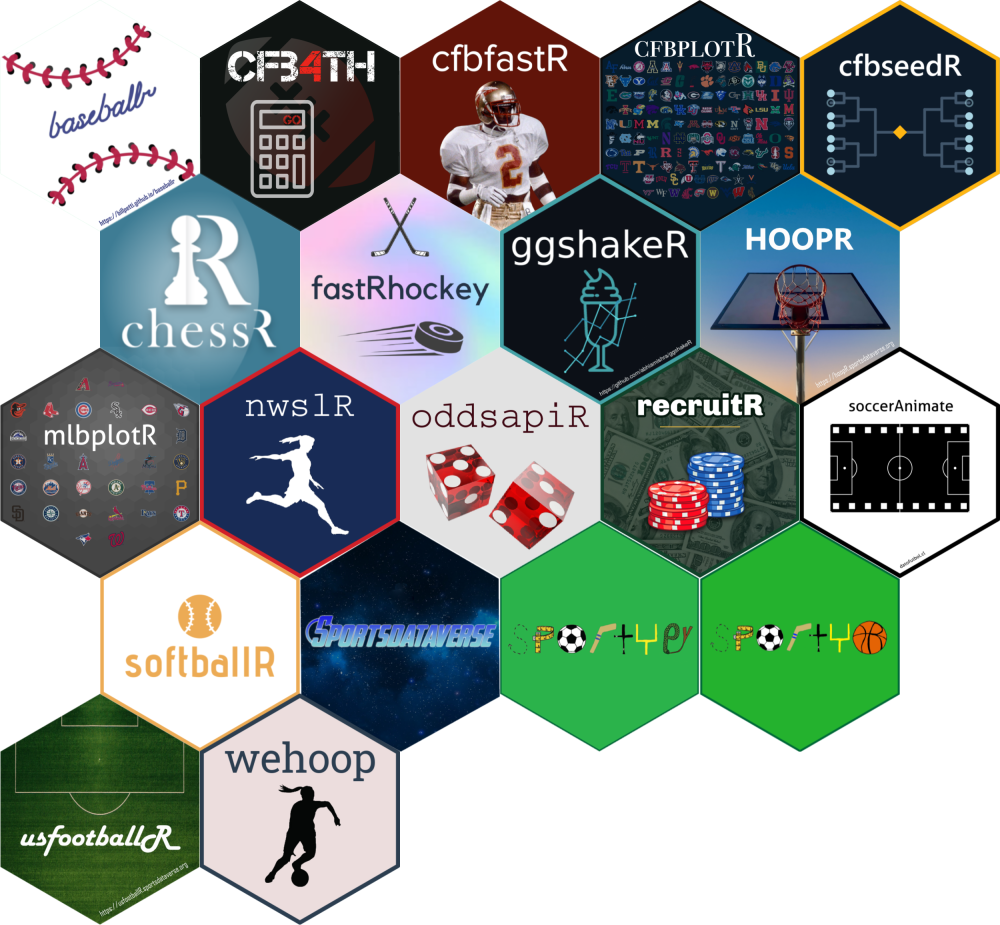
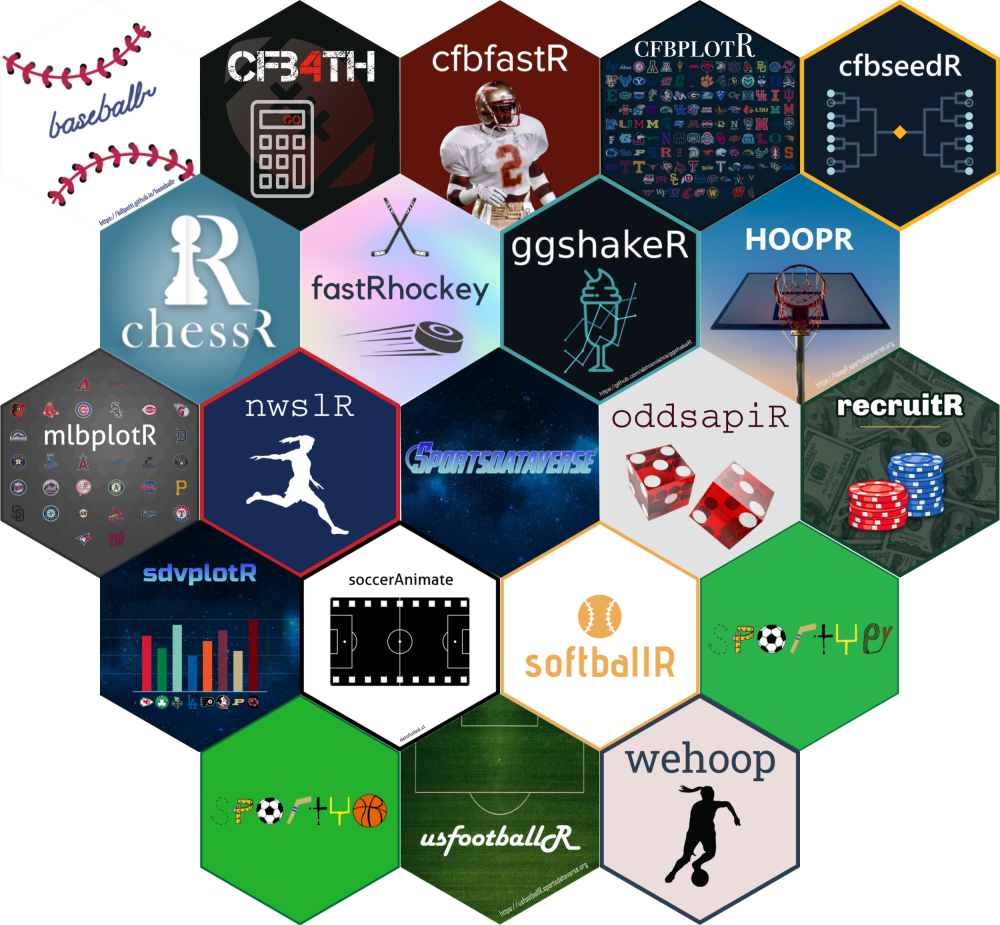
docs(profile): refresh org README; feat(status): combined CRAN downloads badge (#44)
* docs(profile): refresh org README with per-producer data status, live package versions, quick start

- replace the single badge row with a producer table (pipeline / updated / through) for all 17 data producers
- R and Python packages as tables with live CRAN / R-universe / PyPI version and download badges
- add sdvplotR and sdvplot, a Get started block for R / Python / Node, and a Built on the SportsDataverse section
- fix descriptions (fastRhockey HockeyTech leagues, wrapped hoopR/wehoop/baseballr lines) and add alt text

* docs(profile): lead with packages, link data status, add social and download badges

- intro order: banner, social + downloads badges, get started, packages; data status
  moves below the packages as a link plus one row of league badges
- add Bluesky (@sportsdataverse.org), social-style follower/star badges, PyPI and npm
  total downloads, and a combined CRAN downloads badge
- contributors wall (contrib.rocks) for the four flagship repos; cheat-sheet table folded
- hex wall rebuilt from sportsdataverse-R (sdvplotR added, transparent for dark mode)

feat(status): emit ecosystem/cran-downloads.json, all-time CRAN downloads summed over
package_repos via cranlogs (valid R names only; a failed read carries the last number
forward instead of publishing a zero), with tests

* chore(status): drop the hand-seeded badge; the nightly ecosystem-status run writes it

* docs(profile): for-the-badge style for every badge; accurate off-season wording
[…]

diff --git a/.github/scripts/ecosystem_status.py b/.github/scripts/ecosystem_status.py
@@ -28,6 +28,7 @@ import re
 import shutil
 import subprocess
 import sys
+import urllib.request
 from datetime import date, datetime, timedelta, timezone
 from pathlib import Path, PurePosixPath
 
@@ -60,6 +61,11 @@ COLORS = {
 TOC_START = "<!-- START doctoc generated TOC please keep comment here to allow auto update -->"
 TOC_END = "<!-- END doctoc generated TOC please keep comment here to allow auto update -->"
 RELEASE_TAGS_HEADING = "## sportsdataverse-data release tags — freshness"
+# All-time CRAN downloads (RStudio mirror) per package; one invalid package name
+# makes cranlogs reject the whole query, so only valid R names are sent.
+CRANLOGS = "https://cranlogs.r-pkg.org/downloads/total/2012-10-01:last-day/"
+R_PKG_RE = re.compile(r"^[A-Za-z][A-Za-z0-9.]*[A-Za-z0-9]$")
+CRAN_BADGE = "ecosystem/cran-downloads.json"
 
 
 def warn(msg: str) -> None:
@@ -280,6 +286,28 @@ def badge(label: str, message: str, color: str) -> dict:
         "color": color,
         "namedLogo": "github",
     }
+
+
+def human_count(n: int) -> str:
+    if n >= 1_000_000:
+        return f"{n / 1_000_000:.1f}M"
+    return f"{n // 1000}k" if n >= 1000 else str(n)
+
+
+def cran_downloads_badge(package_repos, fetch=None) -> dict | None:
+    """Combined all-time CRAN downloads of the package repos (repo name = package
+    name; non-R names such as sportsdataverse-py are skipped). None when cranlogs
+    can't be read, so a failed fetch never publishes a zero."""
+    pkgs = sorted({r.split("/")[-1] for r in package_repos if R_PKG_RE.match(r.split("/")[-1])})
+    # cranlogs answers 403 to urllib's default "Python-urllib" User-Agent
+    ua = {"User-Agent": "sportsdataverse-ecosystem-status (+https://sportsdataverse.org/status)"}
+    fetch = fetch or (lambda url: json.load(urllib.request.urlopen(urllib.request.Request(url, headers=ua), timeout=30)))
+    try:
+        total = sum(int(row.get("downloads") or 0) for row in fetch(CRANLOGS + ",".join(pkgs)))
+    except (OSError, ValueError, TypeError, AttributeError) as e:
+        warn(f"cranlogs downloads not read: {e}")
+        return None
+    return {**badge("CRAN downloads", human_count(total), "blue"), "namedLogo": "r"}
 
 
 def wf_badge(wf: dict) -> dict:
@@ -890,6 +918,14 @@ def main() -> int:
     dirs = badge_dirs(snap["repos"])
     summary = build_summary(snap, cfg, NOW, dirs)
     files = badge_files(snap, summary, dirs)
+    cran = cran_downloads_badge(cfg["package_repos"])
+    if cran is None:  # badges/ is wiped below: carry last night's number forward
+        try:
+            cran = json.loads((OUT / "badges" / CRAN_BADGE).read_text(encoding="utf-8"))
+        except (OSError, ValueError):
+            pass
+    if cran:
+        files[CRAN_BADGE] = cran
     OUT.mkdir(parents=True, exist_ok=True)
     write_json(OUT / "ecosystem.json", snap)
     write_json(OUT / "summary.json", summary)

diff --git a/.github/scripts/tests/test_ecosystem_status.py b/.github/scripts/tests/test_ecosystem_status.py
@@ -831,5 +831,32 @@ class Markdown(Base):
                 self.assertIsNone(re.search(r"\d", l), l)
 
 
+class CranDownloads(Base):
+    def test_sums_valid_r_package_names_only(self):
+        seen = []
+
+        def fetch(url):
+            seen.append(url)
+            return [{"package": "hoopR", "downloads": 1_200_000}, {"package": "wehoop", "downloads": 34_567}]
+
+        b = es.cran_downloads_badge(
+            ["sportsdataverse/hoopR", "sportsdataverse/wehoop", "sportsdataverse/sportsdataverse-py"], fetch
+        )
+        self.assertEqual(seen, [es.CRANLOGS + "hoopR,wehoop"])  # a hyphenated name 404s the whole query
+        self.assertEqual((b["label"], b["message"], b["namedLogo"]), ("CRAN downloads", "1.2M", "r"))
+
+    def test_failed_fetch_is_none_never_zero(self):
+        def down(url):
+            raise OSError("cranlogs down")
+
+        self.assertIsNone(es.cran_downloads_badge(["sportsdataverse/hoopR"], down))
+        # cranlogs answers a bad query with an error object, not a list
+        self.assertIsNone(es.cran_downloads_badge(["sportsdataverse/hoopR"], lambda url: {"error": "Invalid query"}))
+        self.assertTrue(any("cranlogs" in w for w in es.WARNINGS))
+
+    def test_human_count(self):
+        self.assertEqual([es.human_count(n) for n in (999, 287_487, 1_234_567)], ["999", "287k", "1.2M"])
+
+
 if __name__ == "__main__":
     unittest.main()

diff --git a/profile/README.md b/profile/README.md
@@ -1,95 +1,158 @@
-# [SportsDataverse](https://sportsdataverse.org/ "The home page of the SportsDataverse Organization")
+<p align="center">
+  <a href="https://sportsdataverse.org/" title="The home page of the SportsDataverse Organization"><img src="https://raw.githubusercontent.com/sportsdataverse/.github/main/profile/sdv-gh.png" width="640" alt="SportsDataverse"/></a>
+</p>
 
-## Data and automation status
+<p align="center">
+  <b>Open sports data for R, Python and JavaScript.</b><br/>
+  Tidy play-by-play, box scores, schedules, rosters and fitted models (expected points, win probability, expected goals)
+  for college and pro football, basketball, hockey and baseball, published by automated pipelines that every package reads from.
+</p>
 
-Every SportsDataverse loader reads the `sportsdataverse-data` releases; how fresh each producer's data is and whether its pipeline is passing is on [sportsdataverse.org/status](https://sportsdataverse.org/status), rebuilt nightly from [status/ecosystem.md](https://github.com/sportsdataverse/.github/blob/main/status/ecosystem.md).
+<p align="center">
+  <a href="https://github.com/sportsdataverse"><img src="https://img.shields.io/github/followers/sportsdataverse?label=Follow&logo=github&logoColor=white&style=for-the-badge" alt="GitHub followers"/></a>
+  <a href="https://github.com/sportsdataverse"><img src="https://img.shields.io/github/stars/sportsdataverse?label=Stars&logo=github&logoColor=white&style=for-the-badge" alt="GitHub stars"/></a>
+  <a href="https://bsky.app/profile/sportsdataverse.org"><img src="https://img.shields.io/bluesky/followers/sportsdataverse.org?logo=bluesky&label=Bluesky&logoColor=white&style=for-the-badge" alt="Bluesky followers"/></a>
+  <a href="https://x.com/sportsdataverse"><img src="https://img.shields.io/badge/%40sportsdataverse-000000?logo=x&logoColor=white&style=for-the-badge" alt="Follow on X"/></a>
+  <br/>
+  <a href="https://sportsdataverse.r-universe.dev"><img src="https://img.shields.io/endpoint?url=https%3A%2F%2Fraw.githubusercontent.com%2Fsportsdataverse%2F.github%2Fmain%2Fstatus%2Fbadges%2Fecosystem%2Fcran-downloads.json&style=for-the-badge" alt="CRAN downloads"/></a>
+  <a href="https://pepy.tech/project/sportsdataverse"><img src="https://img.shields.io/pepy/dt/sportsdataverse?label=PyPI%20downloads&logo=python&logoColor=white&color=blue&style=for-the-badge" alt="PyPI downloads"/></a>
+  <a href="https://www.npmjs.com/package/sportsdataverse"><img src="https://img.shields.io/npm/dt/sportsdataverse?label=npm%20downloads&logo=npm&color=blue&style=for-the-badge" alt="npm downloads"/></a>
+  <a href="https://sportsdataverse.r-universe.dev"><img src="https://img.shields.io/badge/dynamic/json?url=https%3A%2F%2Fsportsdataverse.r-universe.dev%2Fapi%2Fpackages&query=%24.length&label=r-universe%20packages&logo=r&color=blue&style=for-the-badge" alt="R-universe packages"/></a>
+</p>
 
-[![WBB](https://img.shields.io/endpoint?url=https%3A%2F%2Fraw.githubusercontent.com%2Fsportsdataverse%2F.github%2Fmain%2Fstatus%2Fbadges%2Fwehoop-wbb-data%2Fstatus.json&label=WBB)](https://github.com/sportsdataverse/wehoop-wbb-data/actions)
-[![WNBA](https://img.shields.io/endpoint?url=https%3A%2F%2Fraw.githubusercontent.com%2Fsportsdataverse%2F.github%2Fmain%2Fstatus%2Fbadges%2Fwehoop-wnba-data%2Fstatus.json&label=WNBA)](https://github.com/sportsdataverse/wehoop-wnba-data/actions)
-[![MBB](https://img.shields.io/endpoint?url=https%3A%2F%2Fraw.githubusercontent.com%2Fsportsdataverse%2F.github%2Fmain%2Fstatus%2Fbadges%2FhoopR-mbb-data%2Fstatus.json&label=MBB)](https://github.com/sportsdataverse/hoopR-mbb-data/actions)
-[![NBA](https://img.shields.io/endpoint?url=https%3A%2F%2Fraw.githubusercontent.com%2Fsportsdataverse%2F.github%2Fmain%2Fstatus%2Fbadges%2FhoopR-nba-data%2Fstatus.json&label=NBA)](https://github.com/sportsdataverse/hoopR-nba-data/actions)
-[![CFB](https://img.shields.io/endpoint?url=https%3A%2F%2Fraw.githubusercontent.com%2Fsportsdataverse%2F.github%2Fmain%2Fstatus%2Fbadges%2FcfbfastR-cfb-data%2Fstatus.json&label=CFB)](https://github.com/sportsdataverse/cfbfastR-cfb-data/actions)
-[![NFL](https://img.shields.io/endpoint?url=https%3A%2F%2Fraw.githubusercontent.com%2Fsportsdataverse%2F.github%2Fmain%2Fstatus%2Fbadges%2Fnfl-data%2Fstatus.json&label=NFL)](https://github.com/sportsdataverse/nfl-data/actions)
-[![NHL](https://img.shields.io/endpoint?url=https%3A%2F%2Fraw.githubusercontent.com%2Fsportsdataverse%2F.github%2Fmain%2Fstatus%2Fbadges%2FfastRhockey-nhl-data%2Fstatus.json&label=NHL)](https://github.com/sportsdataverse/fastRhockey-nhl-data/actions)
-[![PWHL](https://img.shields.io/endpoint?url=https%3A%2F%2Fraw.githubusercontent.com%2Fsportsdataverse%2F.github%2Fmain%2Fstatus%2Fbadges%2FfastRhockey-pwhl-data%2Fstatus.json&label=PWHL)](https://github.com/sportsdataverse/fastRhockey-pwhl-data/actions)
-[![MLB](https://img.shields.io/endpoint?url=https%3A%2F%2Fraw.githubusercontent.com%2Fsportsdataverse%2F.github%2Fmain%2Fstatus%2Fbadges%2Fbaseballr-data%2Fstatus.json&label=MLB)](https://github.com/sportsdataverse/baseballr-data/actions)
+<p align="center">
+  <a href="https://sportsdataverse.org/">Website</a> ·
+  <a href="https://sportsdataverse.org/cheatsheets">Cheat sheets</a> ·
+  <a href="https://sportsdataverse.r-universe.dev">R-universe</a> ·
+  <a href="https://github.com/sportsdataverse/sportsdataverse-data/releases">Data releases</a> ·
+  <a href="https://sportsdataverse.org/status">Data status</a> ·
+  <a href="https://sportsdataverse.org/join">Join the list</a>
+</p>
 
+## Get started
+
+```r
+# R: the whole family from R-universe (the core packages are also on CRAN)
+install.packages("sportsdataverse",
+  repos = c("https://sportsdataverse.r-universe.dev", "https://cloud.r-project.org"))
+pbp <- cfbfastR::load_cfb_pbp(2025)
+```
+
+```python
+# Python: pip install sportsdataverse
+from sportsdataverse.cfb import load_cfb_pbp
+pbp = load_cfb_pbp(seasons=[2025])  # a polars DataFrame; return_as_pandas=True for pandas
+```
+
+```sh
+# Node.js
+npm install sportsdataverse
+```
 
 ## R Packages
 
-<a href='https://r.sportsdataverse.org/'><img src='https://raw.githubusercontent.com/sportsdataverse/.github/main/profile/sdv-hex-wall.png' align='right' width='38%' min-width='260px' alt='The SportsDataverse R package hex wall'/></a>
+<p align="center"><a href='https://r.sportsdataverse.org/'><img src='https://raw.githubusercontent.com/sportsdataverse/.github/main/profile/sdv-hex-wall.png' width='560' alt='The SportsDataverse R package hex wall'/></a></p>
 
-- [{sportsdataverse}](https://sportsdataverse.org/) - The SportsDataverse meta-package for R — loads the core SDV R packages in one call · [cheat sheet](https://sportsdataverse.org/cheatsheets/sportsdataverse-R.pdf)
-- [{cfbfastR}](https://cfbfastR.sportsdataverse.org/) - An R package to quickly obtain clean and tidy college football play by play data (Data sources: CollegeFootballData, ESPN) · [cheat sheet](https://sportsdataverse.org/cheatsheets/cfbfastR.pdf)
-- [{hoopR}](https://hoopR.sportsdataverse.org/) - A utility to quickly obtain clean and tidy men's · [cheat sheet](https://sportsdataverse.org/cheatsheets/hoopR.pdf)
-    basketball play by play data (Data sources: NBA Stats API, ESPN, KenPom)
-- [{wehoop}](https://wehoop.sportsdataverse.org/) - A utility to quickly obtain clean and tidy women's · [cheat sheet](https://sportsdataverse.org/cheatsheets/wehoop.pdf)
-    basketball play by play data (Data sources: WNBA Stats API, ESPN)
-- [{baseballr}](https://BillPetti.github.io/baseballr/) - Provides numerous utilities for acquiring and analyzing · [cheat sheet](https://sportsdataverse.org/cheatsheets/baseballr.pdf)
-    baseball data from online sources (Data sources: Baseball Reference, FanGraphs, MLB Stats API, NCAA)
-- [{fastRhockey}](https://fastrhockey.sportsdataverse.org/) - A utility to scrape and load hockey play-by-play data and statistics (Data sources: NHL, PWHL) · [cheat sheet](https://sportsdataverse.org/cheatsheets/fastRhockey.pdf)
-- [{sportyR}](https://sportyr.sportsdataverse.org/) - Create scaled 'ggplot' representations of playing surfaces. Playing surfaces are drawn pursuant to rule-book specifications. · [cheat sheet](https://sportsdataverse.org/cheatsheets/sportyR.pdf)
-- [{ggshakeR}](https://abhiamishra.github.io/ggshakeR/) - Analysis and visualization R package that works with publically available soccer data (Compatible data sources: FB Reference, StatsBomb, Understat)
-- [{soccerAnimate}](https://github.com/Dato-Futbol/soccerAnimate) - Create 2D animations of soccer tracking data (Compatible data sources: Metrica Sports, Catapult)
-- [{oddsapiR}](https://oddsapir.sportsdataverse.org/) - Access sports odds from the Odds API (Data sources: The Odds API) · [cheat sheet](https://sportsdataverse.org/cheatsheets/oddsapiR.pdf)
-- [{mlbplotR}](https://camdenk.github.io/mlbplotR/) - Create 'ggplot2' and 'gt' Visuals with Major League Baseball Logos · [cheat sheet](https://sportsdataverse.org/cheatsheets/mlbplotR.pdf)
-- [{cfbplotR}](https://cfbplotr.sportsdataverse.org/) - A set of functions to visualize college football teams in 'ggplot2' · [cheat sheet](https://sportsdataverse.org/cheatsheets/cfbplotR-cfb4th-cfbseedR.pdf)
-- [{cfb4th}](http://cfb4th.sportsdataverse.org/) - A set of functions to analyze NCAA Football 4th Downs · [cheat sheet](https://sportsdataverse.org/cheatsheets/cfbplotR-cfb4th-cfbseedR.pdf)
-- [{cfbseedR}](https://cfbseedR.sportsdataverse.org/) - Simulate and evaluate college football seasons: conference tiebreakers, CFP seeding and season simulations (Data sources: cfbfastR, CollegeFootballData) · [cheat sheet](https://sportsdataverse.org/cheatsheets/cfbplotR-cfb4th-cfbseedR.pdf)
-- [{softballR}](https://github.com/sportsdataverse/softballR) - Scrapes and cleans college softball data (Data sources: NCAA, ESPN)
-- [{nwslR}](https://github.com/nwslR/nwslR) - Compiles dataset for the National Women's Soccer League (NWSL)
-- [{usfootballR}](https://usfootballr.sportsdataverse.org/) - MLS and NWSL play-by-play data (Data sources: ESPN)
-- [{recruitR}](https://recruitr.sportsdataverse.org/) - A college football recruiting package (Data sources: CollegeFootballData, 247sports)
-- [{puntr}](https://puntalytics.github.io/puntr) - Package for puntalytics
-- [{chessR}](https://jaseziv.github.io/chessR/) - A set of functions to enable users to extract chess game data from popular chess sites (Data sources: Lichess, Chess.com)
+| Package | Covers | Version | Downloads | Cheat sheet |
+| --- | --- | --- | --- | --- |
+| [sportsdataverse](https://r.sportsdataverse.org/) | The meta-package: installs and loads the core SDV R packages in one call | [![R-universe version](https://img.shields.io/badge/dynamic/json?url=https%3A%2F%2Fsportsdataverse.r-universe.dev%2Fapi%2Fpackages%2Fsportsdataverse&query=%24.Version&label=r-universe&logo=r&color=blue&style=for-the-badge)](https://sportsdataverse.r-universe.dev/sportsdataverse) | | [PDF](https://sportsdataverse.org/cheatsheets/sportsdataverse-R.pdf) |
+| [cfbfastR](https://cfbfastR.sportsdataverse.org/) | College football play-by-play, EPA and win probability (CollegeFootballData, ESPN, stats.ncaa.org) | [![CRAN version](https://img.shields.io/cran/v/cfbfastR?label=CRAN&style=for-the-badge)](https://CRAN.R-project.org/package=cfbfastR) | [![CRAN downloads](https://img.shields.io/badge/dynamic/json?url=https%3A%2F%2Fcranlogs.r-pkg.org%2Fdownloads%2Ftotal%2F2012-10-01%3Alast-day%2FcfbfastR&query=%24%5B0%5D.downloads&label=downloads&color=blue&style=for-the-badge)](https://CRAN.R-project.org/package=cfbfastR) | [PDF](https://sportsdataverse.org/cheatsheets/cfbfastR.pdf) |
+| [hoopR](https://hoopR.sportsdataverse.org/) | Men's basketball, NBA and college (NBA Stats API, ESPN, KenPom, stats.ncaa.org) | [![CRAN version](https://img.shields.io/cran/v/hoopR?label=CRAN&style=for-the-badge)](https://CRAN.R-project.org/package=hoopR) | [![CRAN downloads](https://img.shields.io/badge/dynamic/json?url=https%3A%2F%2Fcranlogs.r-pkg.org%2Fdownloads%2Ftotal%2F2012-10-01%3Alast-day%2FhoopR&query=%24%5B0%5D.downloads&label=downloads&color=blue&style=for-the-badge)](https://CRAN.R-project.org/package=hoopR) | [PDF](https://sportsdataverse.org/cheatsheets/hoopR.pdf) |
+| [wehoop](https://wehoop.sportsdataverse.org/) | Women's basketball, WNBA and college (WNBA Stats API, ESPN, stats.ncaa.org) | [![CRAN version](https://img.shields.io/cran/v/wehoop?label=CRAN&style=for-the-badge)](https://CRAN.R-project.org/package=wehoop) | [![CRAN downloads](https://img.shields.io/badge/dynamic/json?url=https%3A%2F%2Fcranlogs.r-pkg.org%2Fdownloads%2Ftotal%2F2012-10-01%3Alast-day%2Fwehoop&query=%24%5B0%5D.downloads&label=downloads&color=blue&style=for-the-badge)](https://CRAN.R-project.org/package=wehoop) | [PDF](https://sportsdataverse.org/cheatsheets/wehoop.pdf) |
+| [fastRhockey](https://fastrhockey.sportsdataverse.org/) | Hockey play-by-play and stats (NHL, PWHL, HockeyTech leagues) | [![CRAN version](https://img.shields.io/cran/v/fastRhockey?label=CRAN&style=for-the-badge)](https://CRAN.R-project.org/package=fastRhockey) | [![CRAN downloads](https://img.shields.io/badge/dynamic/json?url=https%3A%2F%2Fcranlogs.r-pkg.org%2Fdownloads%2Ftotal%2F2012-10-01%3Alast-day%2FfastRhockey&query=%24%5B0%5D.downloads&label=downloads&color=blue&style=for-the-badge)](https://CRAN.R-project.org/package=fastRhockey) | [PDF](https://sportsdataverse.org/cheatsheets/fastRhockey.pdf) |
+| [baseballr](https://BillPetti.github.io/baseballr/) | Baseball data (MLB Stats API, Statcast, FanGraphs, Baseball Reference, NCAA) | [![CRAN version](https://img.shields.io/cran/v/baseballr?label=CRAN&style=for-the-badge)](https://CRAN.R-project.org/package=baseballr) | [![CRAN downloads](https://img.shields.io/badge/dynamic/json?url=https%3A%2F%2Fcranlogs.r-pkg.org%2Fdownloads%2Ftotal%2F2012-10-01%3Alast-day%2Fbaseballr&query=%24%5B0%5D.downloads&label=downloads&color=blue&style=for-the-badge)](https://CRAN.R-project.org/package=baseballr) | [PDF](https://sportsdataverse.org/cheatsheets/baseballr.pdf) |
+| [oddsapiR](https://oddsapir.sportsdataverse.org/) | Sportsbook odds (The Odds API) | [![CRAN version](https://img.shields.io/cran/v/oddsapiR?label=CRAN&style=for-the-badge)](https://CRAN.R-project.org/package=oddsapiR) | [![CRAN downloads](https://img.shields.io/badge/dynamic/json?url=https%3A%2F%2Fcranlogs.r-pkg.org%2Fdownloads%2Ftotal%2F2012-10-01%3Alast-day%2FoddsapiR&query=%24%5B0%5D.downloads&label=downloads&color=blue&style=for-the-badge)](https://CRAN.R-project.org/package=oddsapiR) | [PDF](https://sportsdataverse.org/cheatsheets/oddsapiR.pdf) |
+| [cfbseedR](https://cfbseedR.sportsdataverse.org/) | College football season simulation: conference tiebreakers and CFP seeding | [![CRAN version](https://img.shields.io/cran/v/cfbseedR?label=CRAN&style=for-the-badge)](https://CRAN.R-project.org/package=cfbseedR) | [![CRAN downloads](https://img.shields.io/badge/dynamic/json?url=https%3A%2F%2Fcranlogs.r-pkg.org%2Fdownloads%2Ftotal%2F2012-10-01%3Alast-day%2FcfbseedR&query=%24%5B0%5D.downloads&label=downloads&color=blue&style=for-the-badge)](https://CRAN.R-project.org/package=cfbseedR) | [PDF](https://sportsdataverse.org/cheatsheets/cfbplotR-cfb4th-cfbseedR.pdf) |
+| [cfb4th](https://cfb4th.sportsdataverse.org/) | College football fourth-down decisions | [![R-universe version](https://img.shields.io/badge/dynamic/json?url=https%3A%2F%2Fsportsdataverse.r-universe.dev%2Fapi%2Fpackages%2Fcfb4th&query=%24.Version&label=r-universe&logo=r&color=blue&style=for-the-badge)](https://sportsdataverse.r-universe.dev/cfb4th) | | [PDF](https://sportsdataverse.org/cheatsheets/cfbplotR-cfb4th-cfbseedR.pdf) |
+| [cfbplotR](https://cfbplotr.sportsdataverse.org/) | College football logos and colors for ggplot2 | [![R-universe version](https://img.shields.io/badge/dynamic/json?url=https%3A%2F%2Fsportsdataverse.r-universe.dev%2Fapi%2Fpackages%2FcfbplotR&query=%24.Version&label=r-universe&logo=r&color=blue&style=for-the-badge)](https://sportsdataverse.r-universe.dev/cfbplotR) | | [PDF](https://sportsdataverse.org/cheatsheets/cfbplotR-cfb4th-cfbseedR.pdf) |
+| [sdvplotR](https://sdvplotr.sportsdataverse.org/) | **New:** team logos, wordmarks, headshots and colors across leagues for ggplot2, gt and reactable | [![R-universe version](https://img.shields.io/badge/dynamic/json?url=https%3A%2F%2Fsportsdataverse.r-universe.dev%2Fapi%2Fpackages%2FsdvplotR&query=%24.Version&label=r-universe&logo=r&color=blue&style=for-the-badge)](https://sportsdataverse.r-universe.dev/sdvplotR) | | |
+| [recruitR](https://recruitr.sportsdataverse.org/) | College football recruiting (CollegeFootballData, 247Sports) | [![R-universe version](https://img.shields.io/badge/dynamic/json?url=https%3A%2F%2Fsportsdataverse.r-universe.dev%2Fapi%2Fpackages%2FrecruitR&query=%24.Version&label=r-universe&logo=r&color=blue&style=for-the-badge)](https://sportsdataverse.r-universe.dev/recruitR) | | |
+| [usfootballR](https://usfootballr.sportsdataverse.org/) | MLS and NWSL play-by-play (ESPN) | [![R-universe version](https://img.shields.io/badge/dynamic/json?url=https%3A%2F%2Fsportsdataverse.r-universe.dev%2Fapi%2Fpackages%2FusfootballR&query=%24.Version&label=r-universe&logo=r&color=blue&style=for-the-badge)](https://sportsdataverse.r-universe.dev/usfootballR) | | |
+| [softballR](https://github.com/sportsdataverse/softballR) | College softball (NCAA, ESPN) | [![R-universe version](https://img.shields.io/badge/dynamic/json?url=https%3A%2F%2Fsportsdataverse.r-universe.dev%2Fapi%2Fpackages%2FsoftballR&query=%24.Version&label=r-universe&logo=r&color=blue&style=for-the-badge)](https://sportsdataverse.r-universe.dev/softballR) | | |
+| [sportyR](https://sportyr.sportsdataverse.org/) | Regulation playing surfaces for ggplot2 | [![CRAN version](https://img.shields.io/cran/v/sportyR?label=CRAN&style=for-the-badge)](https://CRAN.R-project.org/package=sportyR) | [![CRAN downloads](https://img.shields.io/badge/dynamic/json?url=https%3A%2F%2Fcranlogs.r-pkg.org%2Fdownloads%2Ftotal%2F2012-10-01%3Alast-day%2FsportyR&query=%24%5B0%5D.downloads&label=downloads&color=blue&style=for-the-badge)](https://CRAN.R-project.org/package=sportyR) | [PDF](https://sportsdataverse.org/cheatsheets/sportyR.pdf) |
+| [mlbplotR](https://camdenk.github.io/mlbplotR/) | MLB logos for ggplot2 and gt | [![CRAN version](https://img.shields.io/cran/v/mlbplotR?label=CRAN&style=for-the-badge)](https://CRAN.R-project.org/package=mlbplotR) | [![CRAN downloads](https://img.shields.io/badge/dynamic/json?url=https%3A%2F%2Fcranlogs.r-pkg.org%2Fdownloads%2Ftotal%2F2012-10-01%3Alast-day%2FmlbplotR&query=%24%5B0%5D.downloads&label=downloads&color=blue&style=for-the-badge)](https://CRAN.R-project.org/package=mlbplotR) | [PDF](https://sportsdataverse.org/cheatsheets/mlbplotR.pdf) |
 
+Community packages in the family:
+[ggshakeR](https://abhiamishra.github.io/ggshakeR/) (soccer analysis and visuals: FBref, StatsBomb, Understat) ·
+[soccerAnimate](https://github.com/Dato-Futbol/soccerAnimate) (2D animations of soccer tracking data) ·
+[nwslR](https://github.com/nwslR/nwslR) (National Women's Soccer League datasets) ·
+[puntr](https://puntalytics.github.io/puntr) (puntalytics) ·
+[chessR](https://jaseziv.github.io/chessR/) (Lichess and Chess.com game data).
+All of them install from [sportsdataverse.r-universe.dev](https://sportsdataverse.r-universe.dev).
 
 ## Python Packages <a href="https://pypi.org/user/saiemgilani/" alt="Saiem's Python Packages" target="_blank"> <img src="https://raw.githubusercontent.com/sportsdataverse/.github/main/profile/python-original.svg" alt="python" width="40" height="40"/> </a>
 
-<a href='https://pypi.org/project/sportsdataverse/'><img src='https://raw.githubusercontent.com/sportsdataverse/.github/main/profile/sdv-py-logo.png' style="float:center;margin:20px"  width="18%" min-width="100px"  /></a>
+<a href='https://pypi.org/project/sportsdataverse/'><img src='https://raw.githubusercontent.com/sportsdataverse/.github/main/profile/sdv-py-logo.png' width="18%" min-width="100px" alt="sportsdataverse-py logo"/></a>
 
-[![PyPI](https://img.shields.io/pypi/v/sportsdataverse?label=sportsdataverse&logo=python&style=for-the-badge)](https://pypi.org/project/sportsdataverse/) <a href='https://pypi.org/project/sportsdataverse/'><img alt="PyPI - Down
-loads" src="https://img.shields.io/pypi/dm/sportsdataverse?style=for-the-badge"></a>
+| Package | Covers | Version | Downloads |
+| --- | --- | --- | --- |
+| [sportsdataverse](https://py.sportsdataverse.org/) | 29 leagues across ESPN, NBA/WNBA Stats, HockeyTech, stats.ncaa.org, MLB Statcast and more, plus every release loader and the EP/WP models · [cheat sheet](https://sportsdataverse.org/cheatsheets/sportsdataverse-py.pdf) | [![PyPI version](https://img.shields.io/pypi/v/sportsdataverse?label=PyPI&style=for-the-badge)](https://pypi.org/project/sportsdataverse/) | [![PyPI downloads](https://img.shields.io/pepy/dt/sportsdataverse?label=downloads&color=blue&style=for-the-badge)](https://pepy.tech/project/sportsdataverse) |
+| [sdvplot](https://sdvplot.sportsdataverse.org/) | **New, pre-release:** team logos, wordmarks, headshots and colors for matplotlib, plotnine and table plots ([source](https://github.com/sportsdataverse/sdvplot)) | not yet on PyPI | |
+| [sportypy](https://sportypy.sportsdataverse.org/) | Regulation playing surfaces in Python, the companion to sportyR · [cheat sheet](https://sportsdataverse.org/cheatsheets/sportypy.pdf) | [![PyPI version](https://img.shields.io/pypi/v/sportypy?label=PyPI&style=for-the-badge)](https://pypi.org/project/sportypy/) | [![PyPI downloads](https://img.shields.io/pepy/dt/sportypy?label=downloads&color=blue&style=for-the-badge)](https://pepy.tech/project/sportypy) |
+| [collegebaseball](https://collegebaseball.readthedocs.io/en/latest/) | College baseball data and analysis (NCAA, Boyd's World) | | |
+| [nwslpy](https://github.com/nwslR/nwslpy) | National Women's Soccer League data | | |
 
 [**Documentation**](https://py.sportsdataverse.org/) · [**Cheat sheet (PDF)**](https://sportsdataverse.org/cheatsheets/sportsdataverse-py.pdf)
 
-- [sportsdataverse](https://py.sportsdataverse.org/) - The Python package covering 29 leagues across ESPN, NBA/WNBA Stats, HockeyTech, stats.ncaa.org, MLB Statcast and more · [cheat sheet](https://sportsdataverse.org/cheatsheets/sportsdataverse-py.pdf)
-- [sportypy](https://sportypy.sportsdataverse.org/) - Draw regulation playing surfaces in Python, the companion to sportyR · [cheat sheet](https://sportsdataverse.org/cheatsheets/sportypy.pdf)
-- [collegebaseball](https://collegebaseball.readthedocs.io/en/latest/) - College baseball data and analysis (Data sources: NCAA, Boyd's World)
-- [nwslpy](https://github.com/nwslR/nwslpy) - National Women's Soccer League data in Python
-
 ## <a href="https://nodejs.org" target="_blank">Node.js modules</a>
 
-<a href='https://www.npmjs.com/package/sportsdataverse'><img src='https://raw.githubusercontent.com/sportsdataverse/.github/main/profile/sdv-js.png' style="float:center;margin:20px"  width="18%" min-width="100px"/></a>
+<a href='https://www.npmjs.com/package/sportsdataverse'><img src='https://raw.githubusercontent.com/sportsdataverse/.github/main/profile/sdv-js.png' width="18%" min-width="100px" alt="sportsdataverse-js logo"/></a>
 
 [![npm](https://img.shields.io/npm/v/sportsdataverse?style=for-the-badge)](https://js.sportsdataverse.org/)  [![npm](https://img.shields.io/npm/dm/sportsdataverse?style=for-the-badge)](https://www.npmjs.com/package/sportsdataverse)
-<a href='https://www.npmjs.com/package/sportsdataverse'>[![NPM](https://nodei.co/npm/sportsdataverse.png)](https://npmjs.org/package/sportsdataverse)</a>
 
-[**Documentation**](https://js.sportsdataverse.org/) · [**Cheat sheet (PDF)**](https://sportsdataverse.org/cheatsheets/sportsdataverse-js.pdf)
+ESPN, 247Sports and NCAA endpoints for Node.js. [**Documentation**](https://js.sportsdataverse.org/) · [**Cheat sheet (PDF)**](https://sportsdataverse.org/cheatsheets/sportsdataverse-js.pdf)
 
-## Claude Code plugin
+## Data releases and status
 
-The SportsDataverse ships a [Claude Code](https://claude.com/claude-code) plugin —
-**`sdv-toolkit`** — with skills, agents, hooks, and an MCP server encoding the SDV
-engineering conventions (codegen-safe edit guards, multi-provider league scaffolding,
-returns-schema + docstring auditors, polars-1.x / parser-contract reviewers, and
-R pkgdown/roxygen helpers).
+Every `load_*()` function reads the automated
+[`sportsdataverse-data` releases](https://github.com/sportsdataverse/sportsdataverse-data/releases), free to download
+directly. Freshness and pipeline health for every producer are on
+**[sportsdataverse.org/status](https://sportsdataverse.org/status)**, rebuilt nightly. Out of season a league reads *idle*
+rather than *stale*; red means its update pipeline failed.
 
-```sh
-claude plugin marketplace add sportsdataverse/sportsdataverse
-claude plugin install sdv-toolkit@sportsdataverse
-```
+[![CFB](https://img.shields.io/endpoint?url=https%3A%2F%2Fraw.githubusercontent.com%2Fsportsdataverse%2F.github%2Fmain%2Fstatus%2Fbadges%2FcfbfastR-cfb-data%2Fstatus.json&label=CFB&style=for-the-badge)](https://sportsdataverse.org/status)
+[![NFL](https://img.shields.io/endpoint?url=https%3A%2F%2Fraw.githubusercontent.com%2Fsportsdataverse%2F.github%2Fmain%2Fstatus%2Fbadges%2Fnfl-data%2Fstatus.json&label=NFL&style=for-the-badge)](https://sportsdataverse.org/status)
+[![NBA](https://img.shields.io/endpoint?url=https%3A%2F%2Fraw.githubusercontent.com%2Fsportsdataverse%2F.github%2Fmain%2Fstatus%2Fbadges%2FhoopR-nba-data%2Fstatus.json&label=NBA&style=for-the-badge)](https://sportsdataverse.org/status)
+[![MBB](https://img.shields.io/endpoint?url=https%3A%2F%2Fraw.githubusercontent.com%2Fsportsdataverse%2F.github%2Fmain%2Fstatus%2Fbadges%2FhoopR-mbb-data%2Fstatus.json&label=MBB&style=for-the-badge)](https://sportsdataverse.org/status)
+[![WNBA](https://img.shields.io/endpoint?url=https%3A%2F%2Fraw.githubusercontent.com%2Fsportsdataverse%2F.github%2Fmain%2Fstatus%2Fbadges%2Fwehoop-wnba-data%2Fstatus.json&label=WNBA&style=for-the-badge)](https://sportsdataverse.org/status)
+[![WBB](https://img.shields.io/endpoint?url=https%3A%2F%2Fraw.githubusercontent.com%2Fsportsdataverse%2F.github%2Fmain%2Fstatus%2Fbadges%2Fwehoop-wbb-data%2Fstatus.json&label=WBB&style=for-the-badge)](https://sportsdataverse.org/status)
+[![NHL](https://img.shields.io/endpoint?url=https%3A%2F%2Fraw.githubusercontent.com%2Fsportsdataverse%2F.github%2Fmain%2Fstatus%2Fbadges%2FfastRhockey-nhl-data%2Fstatus.json&style=for-the-badge&label=NHL)](https://sportsdataverse.org/status)
+[![PWHL](https://img.shields.io/endpoint?url=https%3A%2F%2Fraw.githubusercontent.com%2Fsportsdataverse%2F.github%2Fmain%2Fstatus%2Fbadges%2FfastRhockey-pwhl-data%2Fstatus.json&label=PWHL&style=for-the-badge)](https://sportsdataverse.org/status)
+[![MLB](https://img.shields.io/endpoint?url=https%3A%2F%2Fraw.githubusercontent.com%2Fsportsdataverse%2F.github%2Fmain%2Fstatus%2Fbadges%2Fbaseballr-data%2Fstatus.json&label=MLB&style=for-the-badge)](https://sportsdataverse.org/status)
+
+## Built on the SportsDataverse
+
+- [**Game on Paper**](https://gameonpaper.com/cfb "Game on Paper: live analytics for the modern age"): live college
+  football analytics on the same expected-points and win-probability models the packages ship.
+- [**sdv-toolkit**](https://github.com/sportsdataverse/.github/tree/main/sdv-toolkit): a [Claude Code](https://claude.com/claude-code)
+  plugin with skills, agents, hooks and an MCP server encoding the SDV engineering conventions (codegen-safe edit guards,
+  multi-provider league scaffolding, returns-schema and docstring auditors, polars 1.x and parser-contract reviewers,
+  R pkgdown/roxygen helpers).
+
+  ```sh
+  claude plugin marketplace add sportsdataverse/sportsdataverse
+  claude plugin install sdv-toolkit@sportsdataverse
+  ```
+
+## Contributors
+
+Thank you to everyone who has filed an issue, sent a fix or added a league.
+
+<a href="https://github.com/sportsdataverse/sportsdataverse-py/graphs/contributors"><img src="https://contrib.rocks/image?repo=sportsdataverse/sportsdataverse-py&max=48&columns=16" alt="sportsdataverse-py contributors"/></a>
+<a href="https://github.com/sportsdataverse/hoopR/graphs/contributors"><img src="https://contrib.rocks/image?repo=sportsdataverse/hoopR&max=48&columns=16" alt="hoopR contributors"/></a>
+<a href="https://github.com/sportsdataverse/cfbfastR/graphs/contributors"><img src="https://contrib.rocks/image?repo=sportsdataverse/cfbfastR&max=48&columns=16" alt="cfbfastR contributors"/></a>
+<a href="https://github.com/sportsdataverse/wehoop/graphs/contributors"><img src="https://contrib.rocks/image?repo=sportsdataverse/wehoop&max=48&columns=16" alt="wehoop contributors"/></a>
 
 ## Cheat sheets
 
-Printable one-page references for every package — the function families, the
-loaders, and what each one returns. Free to download, print and hand out; every
-sheet ships light and dark on US Letter landscape.
-
+Printable one-page references for every package: the function families, the loaders, and what each one returns. Free to
+download, print and hand out; every sheet ships light and dark on US Letter landscape.
 **[Browse them all at sportsdataverse.org/cheatsheets](https://sportsdataverse.org/cheatsheets)**
 
+<details><summary>Every sheet</summary>
+
 | Sheet | Covers |
-|---|---|
+| --- | --- |
 | [sportsdataverse (R)](https://sportsdataverse.org/cheatsheets/sportsdataverse-R.pdf) | the R metapackage |
 | [sportsdataverse (Python)](https://sportsdataverse.org/cheatsheets/sportsdataverse-py.pdf) | the Python package, 6 pages |
 | [sportsdataverse (Node.js)](https://sportsdataverse.org/cheatsheets/sportsdataverse-js.pdf) | the JavaScript client |
@@ -104,20 +167,27 @@ sheet ships light and dark on US Letter landscape.
 | [sportypy](https://sportsdataverse.org/cheatsheets/sportypy.pdf) | playing surfaces in Python |
 | [mlbplotR](https://sportsdataverse.org/cheatsheets/mlbplotR.pdf) | MLB logos for ggplot2 + gt |
 
+</details>
+
 ## About the SportsDataverse
 
-The first conversation on the SportsDataverse projects happened at the [Carnegie Mellon Sports Analytics Conference](https://www.stat.cmu.edu/cmsac/conference/2021/). The paper our lead engineer, Saiem Gilani, wrote for the conference was selected as the winner for the Data and Software contribution, Open Track for their reproducible research competition.
+The SportsDataverse is led by [Saiem Gilani](https://github.com/saiemgilani), who authors or maintains most of the
+packages above with a community of contributors. The first conversation on the SportsDataverse projects happened at the
+[Carnegie Mellon Sports Analytics Conference](https://www.stat.cmu.edu/cmsac/conference/2021/) in 2021, where the paper
+was selected as the winner of the Data and Software contribution, Open Track, in the reproducible research competition:
+[Slides](https://saiemgilani.github.io/The_SportsDataverse_Initiative/) ·
+[Repository](https://github.com/saiemgilani/The_SportsDataverse_Initiative) ·
+[Paper](https://www.stat.cmu.edu/cmsac/conference/2021/assets/pdf/SaiemGilani.pdf)
 
-The conference materials can be found here:
-  - [Slides](https://saiemgilani.github.io/The_SportsDataverse_Initiative/)
-  - [Repository](https://github.com/saiemgilani/The_SportsDataverse_Initiative)
-  - [Paper](https://www.stat.cmu.edu/cmsac/conference/2021/assets/pdf/SaiemGilani.pdf)
+## Connect with us
 
+<a href="https://bsky.app/profile/sportsdataverse.org"><img src="https://img.shields.io/badge/Bluesky-%40sportsdataverse.org-0285FF?logo=bluesky&logoColor=white&style=for-the-badge" alt="Bluesky @sportsdataverse.org"/></a>
+<a href="https://x.com/sportsdataverse"><img src="https://img.shields.io/badge/%40sportsdataverse-000000?logo=x&logoColor=white&style=for-the-badge" alt="X @sportsdataverse"/></a>
+<a href="https://x.com/cfbfastR"><img src="https://img.shields.io/badge/%40cfbfastR-000000?logo=x&logoColor=white&style=for-the-badge" alt="X @cfbfastR"/></a>
+<a href="https://sportsdataverse.org/join"><img src="https://img.shields.io/badge/Newsletter-join-2b6cb0?logo=maildotru&logoColor=white&style=for-the-badge" alt="Join the newsletter"/></a>
 
+Release notes and new-dataset announcements by email: **[sportsdataverse.org/join](https://sportsdataverse.org/join)**
 
-<h3 align="left">Connect with us:</h3>
-<a href="https://x.com/sportsdataverse" target="blank"><img src="https://img.shields.io/twitter/follow/sportsdataverse?color=blue&label=%40sportsdataverse&logo=x&style=for-the-badge" alt="sportsdataverse" /></a> <a href="https://x.com/cfbfastR" target="blank"><img src="https://img.shields.io/twitter/follow/cfbfastR?color=blue&label=%40cfbfastR&logo=x&style=for-the-badge" alt="cfbfastR" /></a> <a href="https://x.com/saiemgilani" target="blank"><img src="https://img.shields.io/twitter/follow/saiemgilani?color=blue&label=%40saiemgilani&logo=x&style=for-the-badge" alt="saiemgilani" /></a>
+[![Support on Ko-fi](https://img.shields.io/badge/Ko--fi-support-FF5E5B?logo=kofi&logoColor=white&style=for-the-badge)](https://ko-fi.com/G2G0KJ588)
 
-[![ko-fi](https://ko-fi.com/img/githubbutton_sm.svg)](https://ko-fi.com/G2G0KJ588)
-
-[![DigitalOcean Referral Badge](https://web-platforms.sfo2.cdn.digitaloceanspaces.com/WWW/Badge%201.svg)](https://www.digitalocean.com/?refcode=38816e14651f&utm_campaign=Referral_Invite&utm_medium=Referral_Program&utm_source=badge)
+[![DigitalOcean referral](https://img.shields.io/badge/DigitalOcean-referral-0080FF?logo=digitalocean&logoColor=white&style=for-the-badge)](https://www.digitalocean.com/?refcode=38816e14651f&utm_campaign=Referral_Invite&utm_medium=Referral_Program&utm_source=badge)

diff --git a/status/README.md b/status/README.md
@@ -56,6 +56,7 @@ Every file follows the shields endpoint schema: `schemaVersion: 1`, `label`,
 | `through.json` | `through` | `YYYY season` — newest season year in the asset names of those same tags (a span `2025-26` reads as 2026) |
 | `status.json` | `pipeline` | `fresh`, `idle (off-season)`, `stale Nd`, `failing`, `unknown` |
 | `wf-<workflow-file-stem>.json` | the workflow's name | `passing · YYYY-MM-DD`, `failing · …`, `cancelled · …`, `disabled · …`, `no runs` |
+| `ecosystem/cran-downloads.json` | `CRAN downloads` | all-time CRAN downloads (RStudio mirror, via cranlogs) summed over `package_repos` with valid R package names, e.g. `252k`; `namedLogo: "r"`; a failed cranlogs read carries the previous number forward |
 
 `updated`, `through` and `status` exist for every producer in `producers.json`;
 `wf-*` exists for every non-dynamic workflow of every public repo in the snapshot
